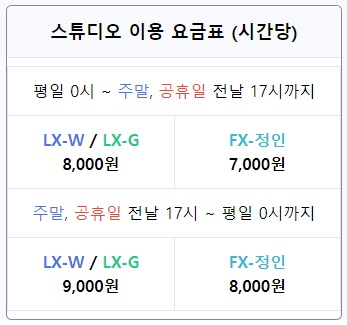
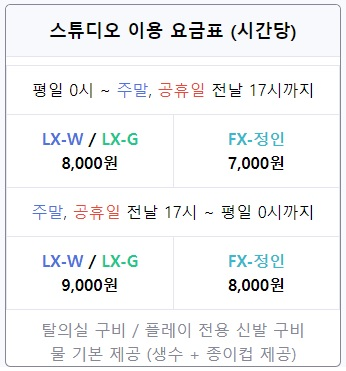
210105-1 티켓예매시 로그인 아이디 기록

diff --git a/application/views/ticket/calendar.php b/application/views/ticket/calendar.php
@@ -172,8 +172,6 @@ require_once $common_dir . "/header.php";
                 <span class="text-success"><i class="fas fa-bus"></i> 4319</span>
                 <span style="color:lightgreen"><i class="fas fa-bus"></i>서초16</span>
                 <br>
-                - 물은 기본 제공됩니다. (생수 + 종이컵)
-                <br>
                 - 주차 가능합니다.
               </div>
               <div class="modal-footer">
@@ -244,7 +242,9 @@ require_once $common_dir . "/header.php";
                 <span style="font-size:1rem; color:darkblue;">&nbsp;[ Version : PIU XX ]</span><br>
                 &nbsp;WINDFORCE의 LX 기체입니다. (좌측에 위치)<br>
                 &nbsp;호평이 자자하던 (故)강남 KONG과 같은 기종의 모니터이며,<br>
-                &nbsp;상태가 우수하던 (故)이수 짱오락실과 유사한 발판 상태로 세팅하였습니다.<br>
+                &nbsp;(故)이수 짱오락실과 유사한 발판 컨디션으로 세팅하였습니다.<br>
+                &nbsp;방문하신 많은 유저분들이 이 기체에서 좋은 성과를 많이 내고 계십니다.<br>
+                - 방송 가능합니다.<br>
                 <br><span style="font-size:1rem">
                 [특징]<br>
                 - 타격감
@@ -312,8 +312,10 @@ require_once $common_dir . "/header.php";
                 <img src="/img/lx_g.jpg" style="width:100%"></img><br><br>
                 <span style="font-size:1rem; color:darkblue;">&nbsp;[ Version : PIU XX ]</span><br>
                 &nbsp;GIMGIMGI의 LX 기체입니다. (우측에 위치)<br>
-                &nbsp;호평이 자자하던 (故)강남 KONG과 같은 기종의 모니터이며,<br>
+                &nbsp;(故)강남 KONG과 같은 기종의 모니터이며,<br>
                 &nbsp;발판 단차가 거의 없는 무턱으로 튜닝되어 있습니다.<br>
+                &nbsp;턱이 없는 발판을 원하시는 분들에게 제격입니다.<br>
+                - 방송 가능합니다.<br>
                 <br><span style="font-size:1rem">
                 [특징]<br>
                 - 타격감
@@ -380,9 +382,13 @@ require_once $common_dir . "/header.php";
               <div class="modal-body text-left" style="font-size:0.8rem; color:black;">
                 <img src="/img/fx_j.jpg" style="width:100%"></img><br><br>
                 <span style="font-size:1rem; color:darkblue;">&nbsp;[ Version : PIU XX ]</span><br>
-                &nbsp;WINDFORCE의 FX 기체입니다. (독립된 공간에 설치됨)<br>
-                &nbsp;(구)정인게임장의 고유 모니터 채용 등 기존의 단점을 없애고 장점만을 계승하였으며,<br>
+                &nbsp;WINDFORCE의 FX 기체입니다. (별실 설치)<br>
+                &nbsp;(故)정인게임장의 고유 모니터 채용 등 기존의 단점을 없애고 장점만을 계승하였으며,
+                &nbsp;독립된 공간에 설치하여 그 시절 그 느낌을 살려 보았습니다.<br>
+                &nbsp;홈케이드로 사용하였기 때문에 발판 단차가 적고(무턱), 발판 소음이 많이 나지 않으며, 무릎 부하가 적은 것이 특징입니다.<br>
                 &nbsp;심혈을 기울여 세팅한 WINDFORCE의 튜닝 노하우가 담겨 있는 발판을 경험하실 수 있습니다.<br>
+                &nbsp;추후 XX 외 다른 옛날 버전(NXA, 제로 등)을 돌릴 수 있도록 계획하고 있습니다.<br>
+                - 방송 가능합니다.<br>
                 <br><span style="font-size:1rem">
                 [특징]<br>
                 - 소음
@@ -482,6 +488,8 @@ require_once $common_dir . "/header.php";
             </td>
           </tr>
         </table>
+        탈의실 구비 / 플레이 전용 신발 구비<br>
+        물 기본 제공 (생수 + 종이컵 제공)
       </div>
 
     </div>

diff --git a/application/views/ticket/studio.php b/application/views/ticket/studio.php
@@ -240,28 +240,24 @@ require_once $common_dir . "/header.php";
         <div class="col-12 my-2">
           <h3 id="select_ment" class="text-black">시작 시각을 선택해주세요.</h3>
         </div>
-        <?php /* 20201230 당분간 9시~24시 영업
         <div class="col-3 m-0">
           <span style="font-size:1rem; color:black;"><?= date("n/j", strtotime($yesterday))?></span><br>
         </div>
-        */ ?>
         <div class="col-6 m-0">
           <span style="font-size:1rem; color:black;"><?= date("n/j", strtotime($today))?></span><br>
         </div>
         <div class="col-3 m-0">
           <span style="font-size:1rem; color:black;"><?= date("n/j", strtotime($tomorrow))?></span><br>
         </div>
-        <?php /* 20201230 당분간 9시~24시 영업
         <div class="col-3 m-0 p-0">
           <div class="btn-group-vertical">
-            <?php for ($q = 18; $q < 24; ++$q) :
+            <?php for ($q = 12; $q < 24; ++$q) :
               $chk_disabled = $resv_data["{$yesterday}{$q}"] ?? "";
             ?>
             <button type="button" id="btn_<?=$yesterday?><?=$q?>" class="btn btn-warning ticket_btn" str="<?=date("Y년 n월 j일", $yesterday_time)?> <?=$q?>시" value="0" index="<?=$q-24?>"><?=$q?>시
             <?php endfor; ?>
           </div>
         </div>
-        */ ?>
         <div class="col-6 m-0 p-0">
           <div class="btn-group-vertical">
             <?php for ($q = 0; $q < 12; ++$q) :
@@ -280,7 +276,7 @@ require_once $common_dir . "/header.php";
         </div>
         <div class="col-3 m-0 p-0">
           <div class="btn-group-vertical">
-            <?php for ($q = 0; $q < 6; ++$q) :
+            <?php for ($q = 0; $q < 12; ++$q) :
               $chk_disabled = $resv_data["{$tomorrow}{$q}"] ?? "";
             ?>
             <button type="button" id="btn_<?=$tomorrow?><?=$q?>" class="btn btn-success ticket_btn" str="<?=date("Y년 n월 j일", $tomorrow_time)?> <?=$q?>시" value="0" index="<?=$q+24?>"><?=$q?>시

diff --git a/application/models/Ticket_model.php b/application/models/Ticket_model.php
@@ -66,7 +66,7 @@ class Ticket_model extends CI_Model
         return $price_info;
     }
 
-    public function insertTicket($machines, $date, $start_idx, $end_idx, $tc_name, $tc_tel, $tc_email, $tc_person, $tc_price) {
+    public function insertTicket($machines, $u_id, $date, $start_idx, $end_idx, $tc_name, $tc_tel, $tc_email, $tc_person, $tc_price) {
         $t_start = strtotime("{$date} {$start_idx} hours");
         $t_end = strtotime("{$date} {$end_idx} hours");
         $tc_start = date("Y-m-d H:i:s", $t_start);
@@ -75,10 +75,10 @@ class Ticket_model extends CI_Model
         $this->db->trans_start();
         foreach($machines as $m_val) {
             if ($this->checkTicket($m_val, $tc_start, $tc_end)) {
-                $sql = "INSERT INTO dv_ticket(tc_type, tc_name, tc_tel, tc_email, tc_starttime, tc_endtime, tc_person, tc_price) VALUES(?,?,?,?,?,?,?,?)";
-                $bind_array = array($m_val, $tc_name, $tc_tel, $tc_email, $tc_start, $tc_end, $tc_person, $tc_price[$m_val]);
+                $sql = "INSERT INTO dv_ticket(tc_u_id, tc_type, tc_name, tc_tel, tc_email, tc_starttime, tc_endtime, tc_person, tc_price) VALUES(?,?,?,?,?,?,?,?,?)";
+                $bind_array = array($u_id, $m_val, $tc_name, $tc_tel, $tc_email, $tc_start, $tc_end, $tc_person, $tc_price[$m_val]);
                 $res = $this->db->query($sql, $bind_array);
-                $sql2 = "INSERT INTO dv_ticket_ready(tc_type, tc_name, tc_tel, tc_email, tc_starttime, tc_endtime, tc_person, tc_price) VALUES(?,?,?,?,?,?,?,?)";
+                $sql2 = "INSERT INTO dv_ticket_ready(tc_u_id, tc_type, tc_name, tc_tel, tc_email, tc_starttime, tc_endtime, tc_person, tc_price) VALUES(?,?,?,?,?,?,?,?,?)";
                 $res2 = $this->db->query($sql2, $bind_array);
                 if (!($res && $res2)) {
                     $this->db->trans_off();

diff --git a/application/controllers/Ticket.php b/application/controllers/Ticket.php
@@ -96,9 +96,10 @@ class Ticket extends CI_Controller {
 		$start_idx = $this->input->post_get('start_idx') ?? null;
 		$end_idx = $this->input->post_get('end_idx') ?? null;
 		if ($machines && $year && $month && $day && $tc_name && $tc_tel && $tc_email && $tc_person && $start_idx && $end_idx) {
+			$u_id = $this->session->u_id ?? null;
 			$date = date("Y-m-d", strtotime("{$year}-{$month}-{$day}"));
 			$price_data = $this->ticket_model->getPrice($machines, $date, $start_idx, $end_idx);
-			$tc_res = $this->ticket_model->insertTicket($machines, $date, $start_idx, $end_idx, $tc_name, $tc_tel, $tc_email, $tc_person, $price_data);
+			$tc_res = $this->ticket_model->insertTicket($machines, $u_id, $date, $start_idx, $end_idx, $tc_name, $tc_tel, $tc_email, $tc_person, $price_data);
 			if ($tc_res) {
 				$this->ticket_model->sendEmail($machines, $date, $start_idx, $end_idx, $tc_name, $tc_tel, $tc_email, $tc_person, $price_data);
 				echo "Y";
@@ -106,7 +107,7 @@ class Ticket extends CI_Controller {
 				echo "N";
 			}
 		} else {
-			echo "정보가 누락되었습니다.";
+			echo "필수 정보가 누락되었습니다.";
 		}
 
 	}
